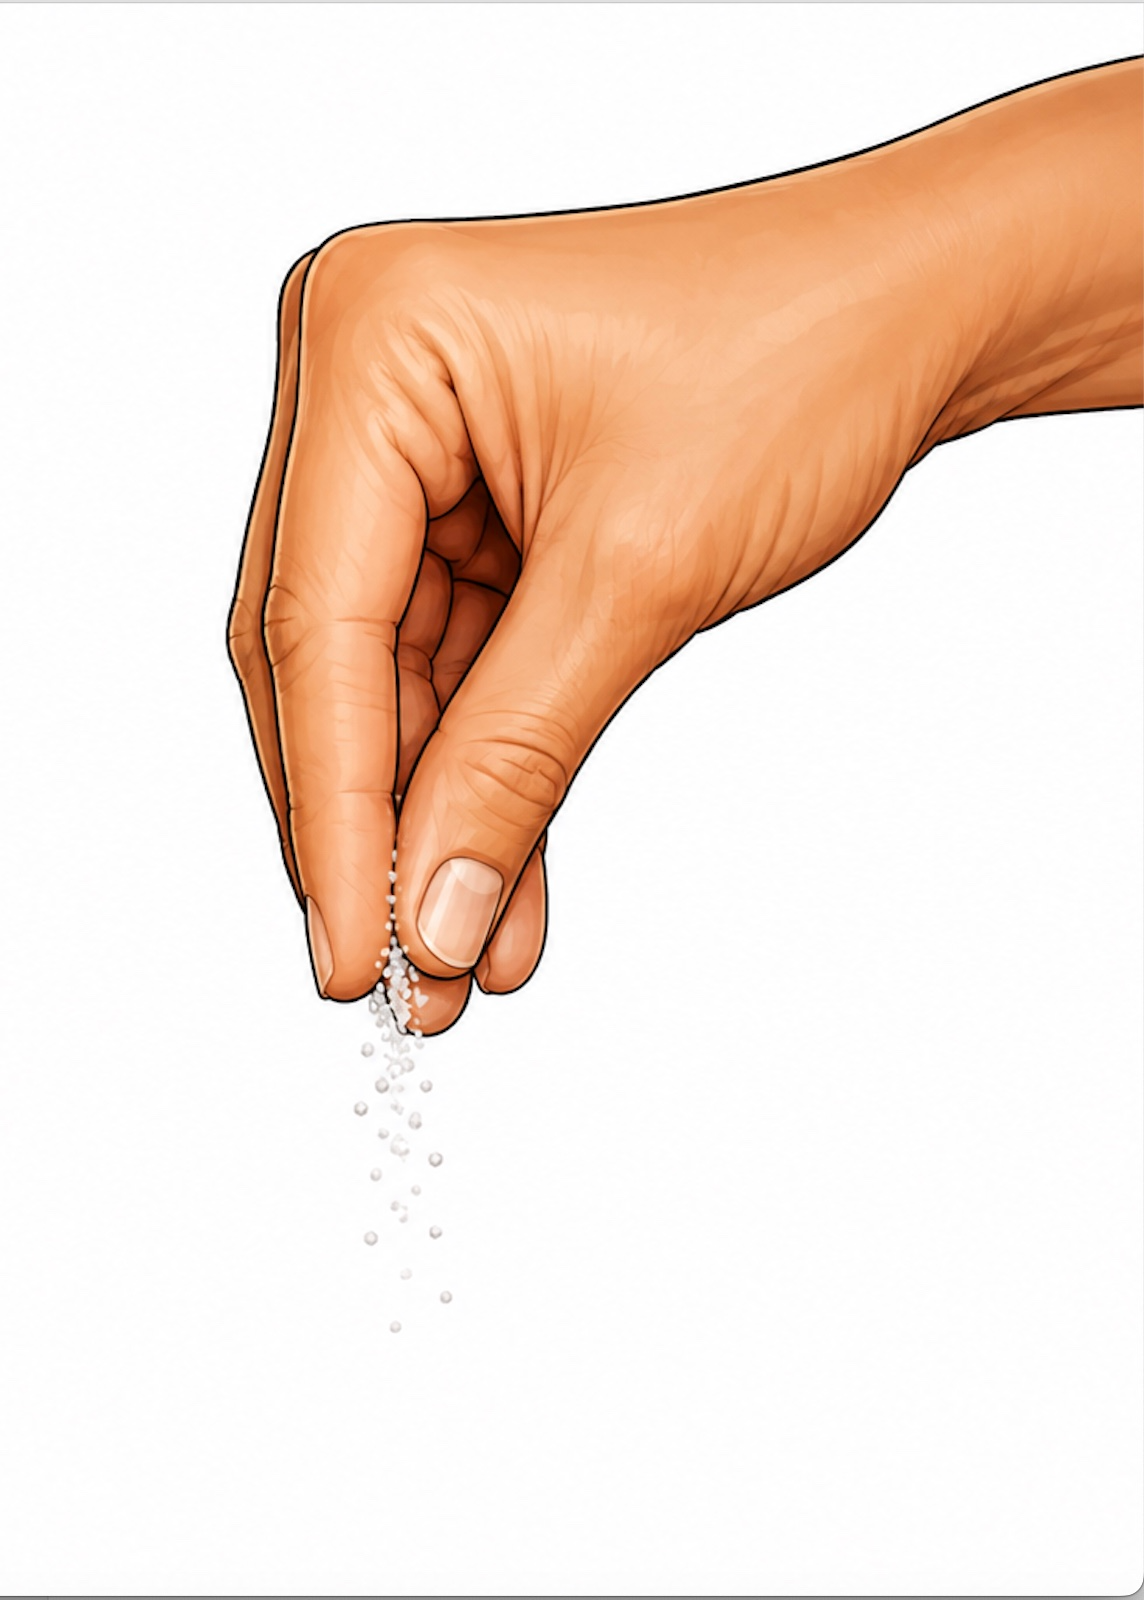
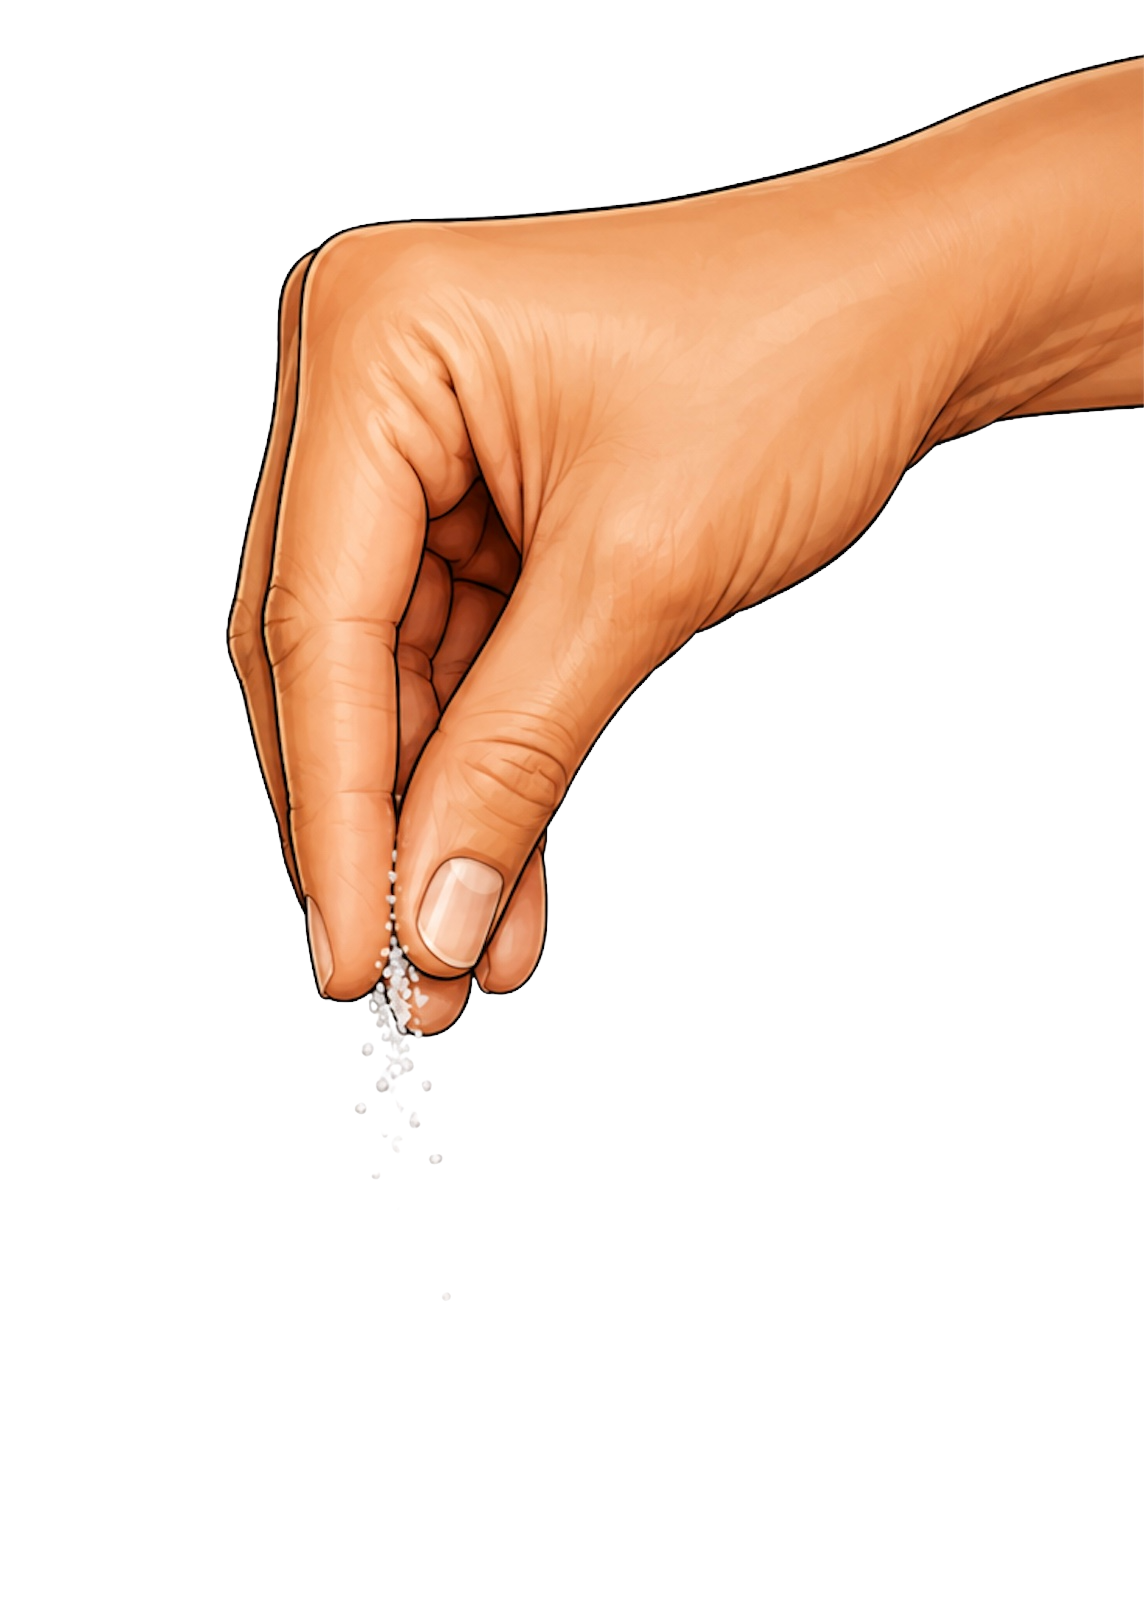
Replace hero image with hand-salt-2, remove mixBlendMode

Changed region(s): [[0.979, 0.9688, 1.0, 1.0]]

diff --git a/app/page.tsx b/app/page.tsx
@@ -114,7 +114,7 @@ function Hero() {
           <img
             src="/images/hand-salt.png"
             alt="SafeSalt in hand"
-            style={{ width: "100%", maxWidth: 480, height: "auto", objectFit: "contain", display: "block", mixBlendMode: "multiply" }}
+            style={{ width: "100%", maxWidth: 480, height: "auto", objectFit: "contain", display: "block" }}
           />
         </div>
       </div>
